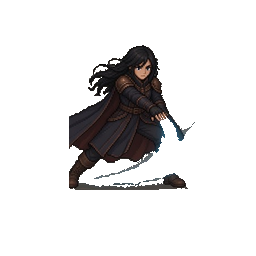
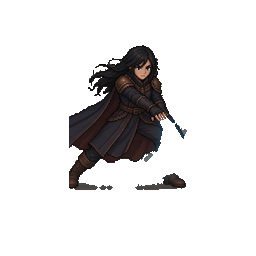
모션연구방: 그록 정면 1·3타 검기 자국 지우기(atkclean_front.py)
Claude-Session: https://claude.ai/code/session_018HdEyN6qvyQ12sEtknYXSH

diff --git a/motion_lab/grok_hero/atkclean_front.py b/motion_lab/grok_hero/atkclean_front.py
@@ -1,0 +1,27 @@
+# 정면 1·3타 몸 그림에 남은 검기 자국 지우기 (검기는 코드로 그림). 대상 frames/<칸>/000.png, 원본은 000_raw.png로 둠
+# ① 밝은 청백 띠(파랑 강함) → 주변 몸 색으로 메움  ② 몸 밖 가는 줄(두께 2px 이하, 회청색) → 지움
+import sys,os,numpy as np
+from PIL import Image
+from scipy import ndimage
+R=os.path.dirname(os.path.abspath(__file__))
+for k in sys.argv[1:]:
+    p=f'{R}/frames/{k}/000.png';raw=f'{R}/frames/{k}/000_raw.png'
+    if not os.path.exists(raw): Image.open(p).save(raw)
+    A=np.array(Image.open(raw).convert('RGBA')).astype(int);r,g,b,a=[A[...,i] for i in range(4)];mean=(r+g+b)/3;on=a>0
+    blue=on&(b>r+20)&(g>r+5)&(mean>60);blue|=on&(mean>150)&ndimage.binary_dilation(blue,iterations=3)
+    thick=ndimage.binary_opening(on,iterations=2)
+    thin=on&~ndimage.binary_dilation(thick,iterations=1)&(mean>45)&~(r>g+12)   # 몸 밖 가는 회청 줄 (갈색 장화·피부는 남김)
+    body=ndimage.binary_dilation(thick&~blue,iterations=1)
+    gone=(blue|thin)&~(body&~blue)   # 몸 밖 → 지움
+    fill=blue&body                     # 몸 위 → 주변 색
+    B=A.copy();B[gone]=0
+    keep=on&~blue&~gone
+    for _ in range(6):
+        if not fill.any(): break
+        acc=np.zeros(A.shape[:2]+(4,));cnt=np.zeros(A.shape[:2])
+        for dy in (-1,0,1):
+            for dx in (-1,0,1):
+                acc+=np.roll(np.roll(B*keep[...,None],dy,0),dx,1);cnt+=np.roll(np.roll(keep,dy,0),dx,1)
+        ok=fill&(cnt>0);B[ok]=(acc[ok]/cnt[ok][:,None]).astype(int);B[ok,3]=255;keep|=ok;fill&=~ok
+    L,n=ndimage.label(B[...,3]>0);big=np.argmax(np.bincount(L.ravel())[1:])+1;sz=np.bincount(L.ravel());B[(L!=big)&(sz[L]<30)]=0
+    Image.fromarray(B.astype('uint8')).save(p);print(k,'지움',int(gone.sum()),'메움',int((blue&body).sum()))
